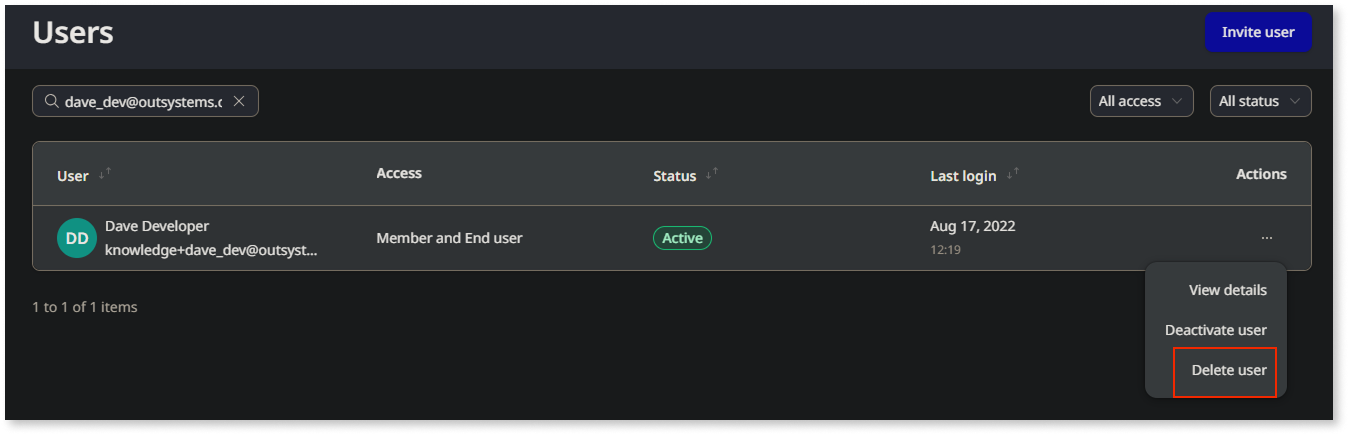
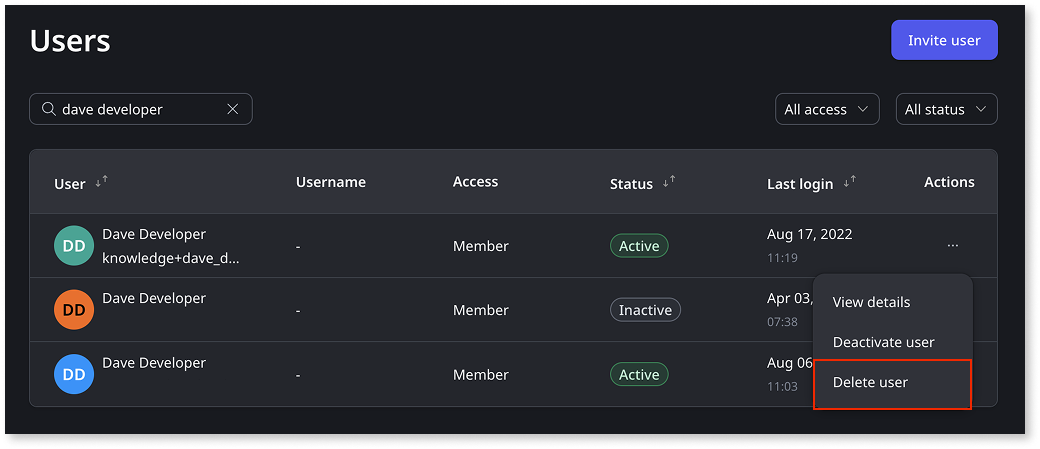
TK-16628 Add new screenshot, add Figma URL (#1730)

diff --git a/src/eap/user-management/create-deactivate-and-delete-users.md b/src/eap/user-management/create-deactivate-and-delete-users.md
@@ -2,7 +2,7 @@
 guid: 32f57458-d846-40e5-bef8-154c0bca4e41
 locale: en-us
 summary: Learn how to create, deactivate, and delete users in the system.
-figma: 
+figma: https://www.figma.com/design/KpEoUxciqaFLGLlZxo7Hiu/User-management?node-id=3704-89&t=9snmrSiMZOFs7g77-1
 
 app_type: mobile apps, reactive web apps
 platform-version: odc
@@ -50,19 +50,25 @@ For more information about granting roles, refer to [Grant and revoke user roles
 
 </div>
 
-### Create new members (IT-users) { #create-new-members }
+### Create new members (IT-users) {#create-new-members}
 
 To manually register [members (IT-users)](intro.md#members-it-users), follow these steps:
 
 1. Go to the **ODC Portal**.
+
 1. Under **Manage**, go to **Users**.
+
 1. Click **Invite user**.
+
 1. Enter the user’s email address, and then expand **Organization access**.
+
 1. Assign roles to the user. Choose a [scope](intro.md#organization-app-stage-and-app-scope):
 
     * **Organization**: Choose a role for the tenant.
 
     * **Apps**: For each app, choose a role or leave it as **Unassigned** if you don't want to assign a role to the user for that app.
+
+      ![Screenshot of the Invite user screen in ODC Portal showing fields for email, organization access, and scope selection.](images/create-new-member-pl.png "Invite new member in ODC Portal")
 
 1. Click **Send invite**.
 
@@ -74,7 +80,7 @@ To manually register [members (IT-users)](intro.md#members-it-users), follow the
 
     </div>
 
-### Create new end-users { #create-new-end-users }
+### Create new end-users {#create-new-end-users}
 
 <div class="info" markdown="1">
 
@@ -114,7 +120,7 @@ To deactivate or activate a user, follow these steps:
 1. For each user you want to update, under **Actions**, click the three dots (**...**).
 1. Click **Deactivate user** or **Activate user** as appropriate, and then confirm the action.
 
-    ![Screenshot illustrating the deactivation of users in the ODC Portal](images/deactivate-pl.png "Deactivate users in the ODC Portal")
+    ![Screenshot illustrating the deactivation of users in the ODC Portal with the Deactivate user option highlighted.](images/deactivate-pl.png "Deactivate users in ODC Portal")
 
     The user's status updates to **Inactive** or **Active** based on your action.
 
@@ -127,7 +133,7 @@ Deleting a user permanently removes their access and all related data from the s
 1. For each user you want to delete, under **Actions**, click the three dots (**...**).
 1. Click **Delete**, and then confirm the action.
 
-    ![Screenshot illustrating the deletion of users in the ODC Portal](images/delete-pl.png "Delete users in the ODC Portal")
+    ![Screenshot illustrating the deletion of users in the ODC Portal with the Delete user option highlighted.](images/delete-pl.png "Delete users in ODC Portal")
 
 <div class="warning" markdown="1">
 
